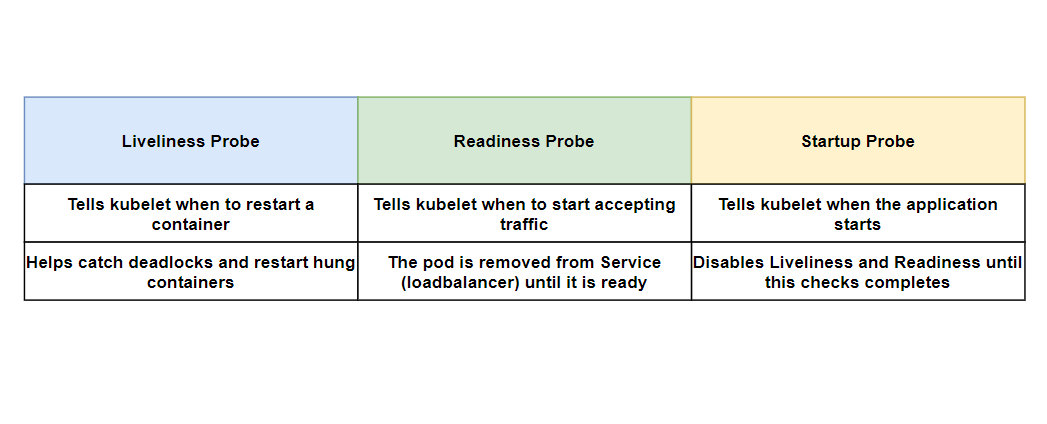
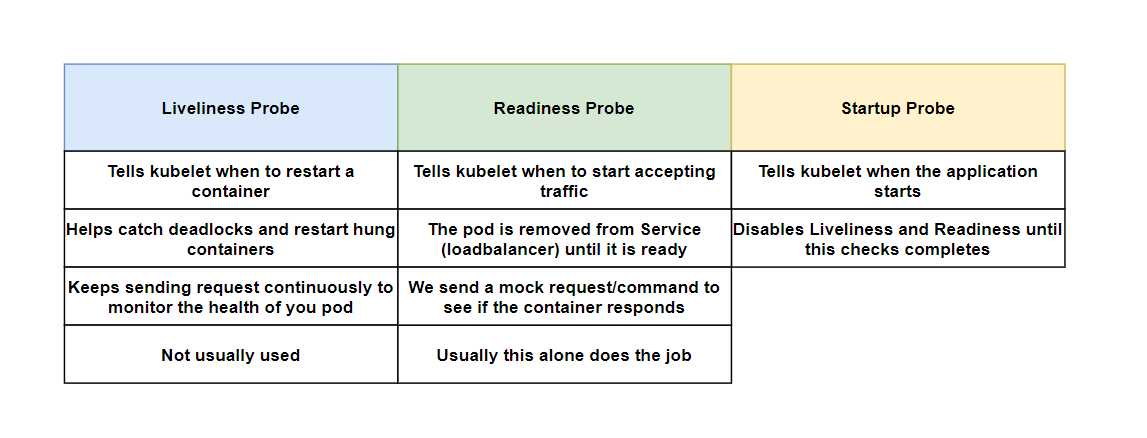
final probe

diff --git a/probes/readme.md b/probes/readme.md
@@ -2,7 +2,7 @@
 
 <p align="center"><img src="https://github.com/karankumarshreds/KubernetesMicroservices/blob/master/img/probes.PNG"/></p>
 
-## Readiness Probes
+## Readiness Probes (mostly used)
 
 Suppose the horizontal pod autoscaler kicks in as soon as there is high load on the running pod.
 <br />
@@ -14,6 +14,34 @@ from the BROWSER or an APP.
 
 So we need some sort of mechanism to add a `delay` before the pod is considered to be **ready**.
 This is done via **Readiness Probes**
+
+Configuration:
+
+In your deployment configuration, inside the containers block:
+
+```yaml
+readinessProbe:
+  exec:
+    command:
+      - cat
+      - /tmp/healthy
+  initialDelaySeconds: 5 ## waits 5 seconds first time
+  periodSeconds: 5 ## sends requests in periods
+```
+
+This will run the command and mark it ready as soon as it runs successfully.
+
+**BETTER WAY OF DOING APPLICATION LEVEL TEST**
+
+```yaml
+# send an internal request to the application
+readinessProbe:
+  httpGet:
+    path: /api/currentuser
+    port: 3000
+  initialDelaySeconds: 10
+  periodSeconds: 5
+```
 
 ## Liveliness Probes
 
